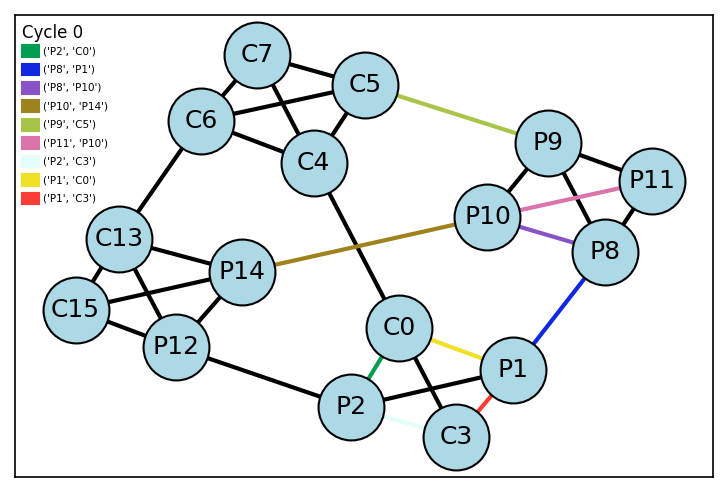
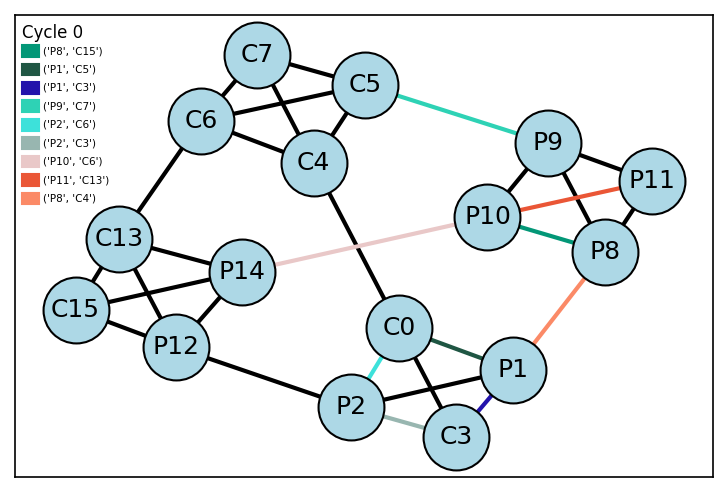
separated the two algorithms

diff --git a/backend.py b/backend.py
@@ -35,7 +35,7 @@ class VisualisationUtils:
             edgecolors="black",
         )
         nx.draw_networkx_labels(G, pos)
-        nx.draw_networkx_edges(G, pos, connectionstyle="arc3,rad=0.1")
+        nx.draw_networkx_edges(G, pos, width=2)
         plt.savefig(outfile, dpi=150, bbox_inches="tight")
         plt.close()
 
@@ -43,6 +43,7 @@ class VisualisationUtils:
         self,
         G: nx.Graph,
         schedule: dict[int, dict[tuple[str, str], str]],
+        ids: dict[tuple[str, str], str],
         outfile: str = "schedule.gif",
     ):
         """
@@ -50,23 +51,14 @@ class VisualisationUtils:
         Create individual frames for each timestep and combine with PIL.
         Claude helped me write this function.
         """
-
-        # Create random coluors for each UUID
-        colours = {}
-        for edges in schedule.values():
-            for id in edges.values():
-                if id not in colours:
-                    colours[id] = f"#{id[:6]}"
+        # Create random colours for each UUID
+        colours = {id: f"#{id[:6]}" for id in ids.values()}
 
         # Compute layout once
         pos = nx.spring_layout(G, seed=self._seed)
 
         # Map transfer id to (from, to) nodes for legend
-        transfer_map = {}
-        for timestep_edges in schedule.values():
-            for edge, id in timestep_edges.items():
-                if id not in transfer_map:
-                    transfer_map[id] = edge
+        transfer_map = {id: edge for edge, id in ids.items()}
 
         # Prepare frames
         images = []
@@ -96,9 +88,7 @@ class VisualisationUtils:
                 else:
                     edge_colours.append("black")
 
-            nx.draw_networkx_edges(
-                G, pos, edge_color=edge_colours, width=2, connectionstyle="arc3,rad=0.1"
-            )
+            nx.draw_networkx_edges(G, pos, edge_color=edge_colours, width=2)
 
             # Add cycle counter to top left
             plt.text(
@@ -170,6 +160,12 @@ class SchedulingUtils:
     ) -> dict[str, set[str]]:
         """
         Create hashtable graph from adjacency list (simplifies Dijkstra)
+
+        Args:
+            adjacency_list: List of tuples representing edges in the graph
+
+        Returns:
+            Dict where keys are node labesl and values are adjacent nodes
         """
         graph = {}
         for edge in adjacency_list:
@@ -182,10 +178,22 @@ class SchedulingUtils:
         return graph
 
     def shortest_path(
-        self, graph: dict[str, set[str]], transfer: tuple[str, str]
+        self,
+        graph: dict[str, set[str]],
+        transfer: tuple[str, str],
+        costs: dict[tuple[str, str], int] = {},
     ) -> list[str]:
         """
         Find shortest path from node A to node B as a list of nodes
+
+        Args:
+            graph: see self.create_graph()
+            transfer: Tuple (from_node, to_node) representing transfer to schedule
+            costs: Optional cost per edge. If not set, each edge has cost 1.
+
+        Returns:
+            List of nodes in the shortest path from A to B, or empty list if no
+            possible path exists.
         """
         # Validation
         from_node, to_node = transfer
@@ -209,7 +217,8 @@ class SchedulingUtils:
                 visited.add(curr)
                 for adjacent in graph[curr]:
                     if adjacent not in visited:
-                        heapq.heappush(pq, (cost + 1, path + [adjacent]))
+                        d_cost = costs.get((curr, adjacent), 1)
+                        heapq.heappush(pq, (cost + d_cost, path + [adjacent]))
 
         return []
 
@@ -217,40 +226,55 @@ class SchedulingUtils:
         self,
         graph: dict[str, set[str]],
         data_transfers: list[tuple[str, str]],
+        MAX_RETRIES: int = 3,
     ) -> list[list[str]]:
         """
-        Find non-overlaping paths for all data transfers
+        Find non-overlapping paths for as many data transfers as possible.
+
+        Args:
+            graph: see self.create_graph()
+            data_transfers: List of tuples holding data transfers to schedule
+            MAX_RETRIES: max iterations to increase path cost to reduce contenttion
         """
-        # Deep clone graph for modifications
-        graph_local = graph.copy()
-
         paths = []
-        for transfer in data_transfers:
-            path = self.shortest_path(graph_local, transfer)
+        costs = {}
 
-            # If path found, remove its edges from graph to avoid conflicts
-            if path:
-                paths.append(path)
+        for R in range(1, MAX_RETRIES + 1):
+            # Initial run to find paths
+            paths = [self.shortest_path(graph, t, costs) for t in data_transfers]
 
-                for i in range(1, len(path)):
+            # Update costs to penalise edges in use
+            costs = {}
+            longest_path = max([len(p) for p in paths])
+
+            # Check for conflicted paths in the same timestep
+            for i in range(1, longest_path):
+                counts = {}
+                for p in paths:
                     try:
-                        graph_local[path[i - 1]].remove(path[i])
-                        graph_local[path[i]].remove(path[i - 1])
-                    # Could be that path doesn't exist ing raph
-                    except Exception as e:
+                        edge = (p[i], p[i - 1])
+                        edge_rev = (p[i - 1], p[i])
+                        counts[edge] = counts.get(edge, 0) + R
+                        counts[edge_rev] = counts.get(edge_rev, 0) + R
+                    except IndexError:
                         continue
 
+                for k, v in counts.items():
+                    if v > R:
+                        costs[k] = v
         return paths
 
     def create_schedule(
         self, adjacency_list: str, data_transfers: str, min_latency: bool = True
-    ) -> dict[int, dict[tuple[str, str], str]]:
+    ) -> tuple[dict[int, dict[tuple[str, str], str]], dict[tuple[str, str], str]]:
         """
         Creates a schedule to either minimise latecny or maximise throughput.
 
-        Returns a dictionary where each key is a timestep with values being the
+        Returns:
+        (1) dictionary where each key is a timestep with values being the
         edges (links) active at that timestep. Each edge is a dict mapping an edge
         (tuple of nodes) to a transfer id.
+        (2) dictionary mapping transfer ids to (from, to) nodes for legend
         """
         self._adjacency = ast.literal_eval(adjacency_list)
         self._transfers = ast.literal_eval(data_transfers)
@@ -263,13 +287,12 @@ class SchedulingUtils:
             paths = self.uncontested_paths(self._graph, self._transfers)
 
         # Allocate paths across times
-        ids = [str(uuid.uuid4()) for _ in paths]
+        ids = {}
         schedule = {}
 
-        for i, path in enumerate(paths):
-            id = ids[i]
+        for path in paths:
+            ids[(path[0], path[-1])] = str(uuid.uuid4())
             timestep = 0
-            print(f"Scheduling path {id} with nodes {path}")
 
             # Schedule each edge in the path, proagating one timestep at a time
             for j in range(1, len(path)):
@@ -281,7 +304,7 @@ class SchedulingUtils:
                 if timestep not in schedule:
                     schedule[timestep] = {}
 
-                schedule[timestep][edge] = id
+                schedule[timestep][edge] = ids[(path[0], path[-1])]
                 timestep += 1
 
-        return schedule
+        return schedule, ids

diff --git a/frontend.py b/frontend.py
@@ -7,7 +7,7 @@ st.title("Software Scheduled Networking (SSN) Demo")
 st.write(
     """
     Experiment with the graph and data transfer settings below to see 
-    different static schedules to minimise latency or maximise throughput.
+    data transfer schedules with pipelining vs. edge contention negotiation.
     """
 )
 
@@ -25,8 +25,8 @@ data_transfers = st.text_area(
 )
 objective = st.selectbox(
     "Objective",
-    options=["Minimise Latency", "Maximise Throughput"],
-    help="Select the objective for the scheduling algorithm.",
+    options=["Contention negotiation", "Pipelined transfers"],
+    help="Select the scheduling algorithm.",
 )
 submit = st.button("Submit")
 
@@ -44,12 +44,13 @@ if submit and adjacency_list and data_transfers:
 
         # Create the schedule
         st.subheader("Schedule")
-        schedule = s.create_schedule(
-            adjacency_list, data_transfers, objective.lower() != "minimise latency"
+        schedule, ids = s.create_schedule(
+            adjacency_list, data_transfers, objective.lower() == "pipelined transfers"
         )
         v.schedule_to_gif(
             graph,
             schedule=schedule,
+            ids=ids,
             outfile="schedule",
         )
         st.image("schedule.gif", caption="Scheduled Transfers")

diff --git a/constants.py b/constants.py
@@ -81,10 +81,7 @@ class Constants:
         ("P2", "C3"),  # Within Group 0: P2 -> C3 (same destination, will pipeline)
         # Scenario 2: Cross-group transfers sharing bottleneck global links
         ("P1", "C5"),  # Group 0 -> Group 1: must use P1->C0->C4->C5 (minimal path)
-        (
-            "P2",
-            "C6",
-        ),  # Group 0 -> Group 1: must use P2->C0->C4->C6 (same global link C0->C4)
+        ("P2", "C6"),  # G0 -> G1: must use P2->C0->C4->C6 (same global link C0->C4)
         # Scenario 3: Producer group to consumer group (high bandwidth demand)
         ("P8", "C4"),  # Group 2 -> Group 1: P8->P9->C5->C4 (minimal)
         ("P9", "C7"),  # Group 2 -> Group 1: same global link bottleneck
